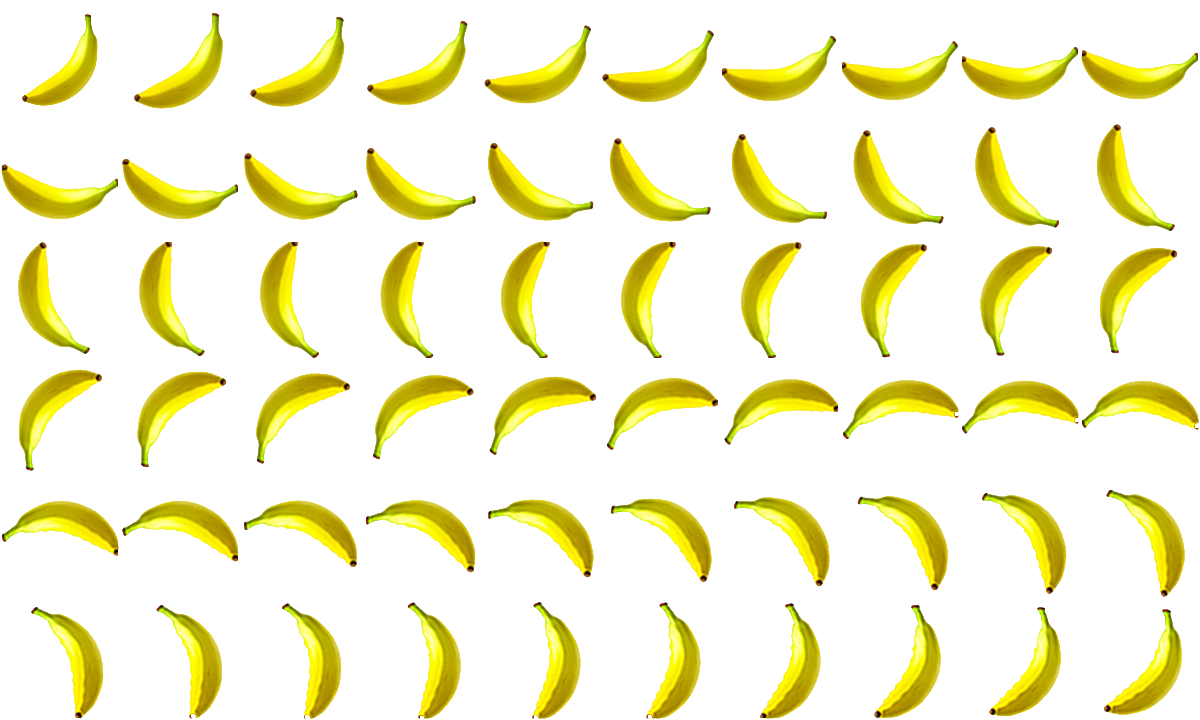
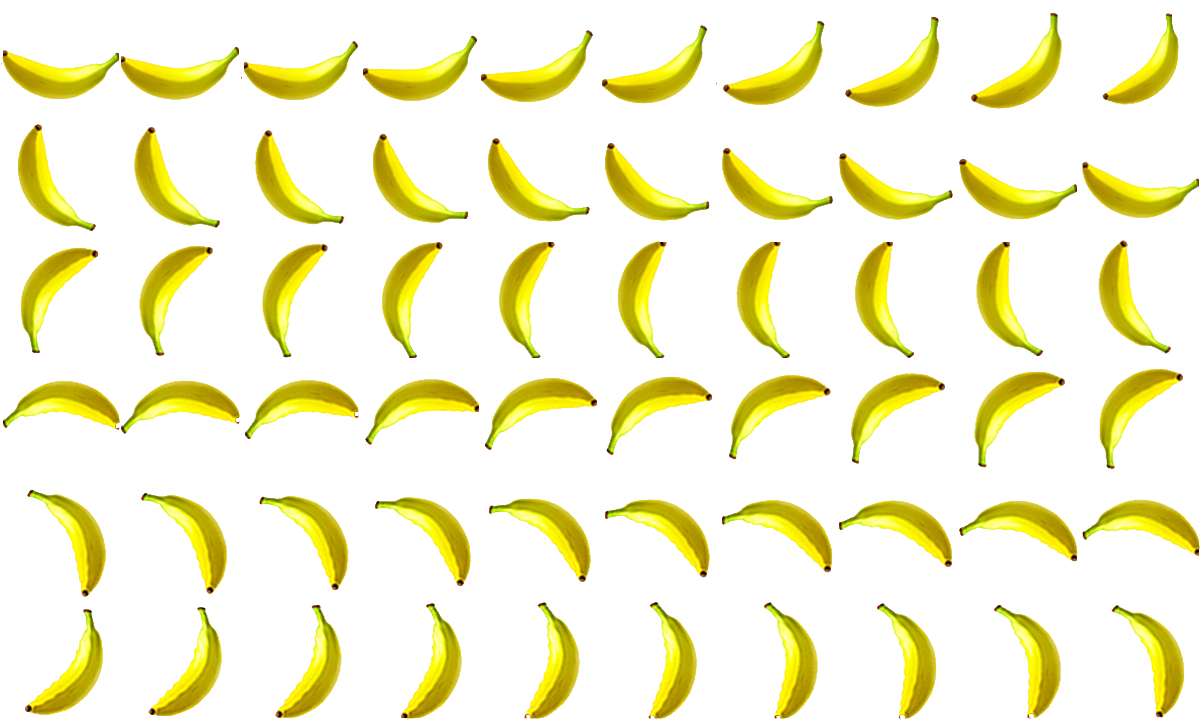
fixed flip issue

diff --git a/test.js b/test.js
@@ -1572,11 +1572,20 @@ imageManager = Class.extend({
 			var y = 0;
 			var sx = imageData[key].actualSizeX/1200*canvas.width;
 			var sy = imageData[key].actualSizeY/720*canvas.height;
+			if (key[key.length-1]=='1') {
+				for (var i=0; i<imageData[key].numY; i++) {
+					for (var j=imageData[key].numX-1; j>=0; j--) {
+						var inside = [img, x+j*imageData[key].sizeX, y+i*imageData[key].sizeY, imageData[key].sizeX, imageData[key].sizeY, -sx/2, -sy/2, sx, sy];
+						list.push(inside);
+					}
+				}
+			}else {
 			for (var i=0; i<imageData[key].numY; i++) {
 				for (var j=0; j<imageData[key].numX; j++) {
 					var inside = [img, x+j*imageData[key].sizeX, y+i*imageData[key].sizeY, imageData[key].sizeX, imageData[key].sizeY, -sx/2, -sy/2, sx, sy];
 					list.push(inside);
 				}
+			}
 			}
 			this.collections[key] = list;
 		}
